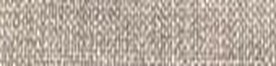
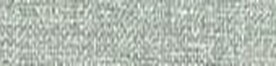
Antidesgarro: nombres reales de los 20 colores y aclarar que es antimanchas
Claude-Session: https://claude.ai/code/session_01CieVK7rjxLV5jgxNJwhLKH

diff --git a/index.html b/index.html
@@ -636,10 +636,10 @@
       info: 'Pana antimanchas, suave al tacto. Para interior. 26 colores.',
       nota: '' },
     antidesgarro: { nombre: 'Antidesgarro', extra: 0, carpeta: 'img/antidesgarro', nota: '',
-      colores: [["Crudo","#e6decc"],["Marfil","#e5dac5"],["Arena","#dfcfb7"],["Beige","#ccbb9b"],["Tostado","#d6bf95"],["Camel","#daad71"],["Amarillo","#f7d018"],
-        ["Pistacho","#d4c277"],["Lima","#baa73a"],["Coral","#ec906e"],["Terracota","#d6967a"],["Visón","#b4a386"],["Natural","#e6e2cf"],["Salvia","#b3bbb2"],
-        ["Celeste","#b7cddb"],["Azul","#658dae"],["Piedra","#b6aa9e"],["Gris","#858585"],["Grafito","#7a776c"],["Negro","#404444"]],
-      info: 'Tela antidesgarro: resiste las uñas de perros y gatos, ideal si tenés mascotas. Para interior. 20 colores.' },
+      colores: [["Óptico","#e6decc"],["Crudo","#e5dac5"],["Beige","#dfcfb7"],["Lino","#ccbb9b"],["Arena","#d6bf95"],["Almendra","#daad71"],["Amarillo","#f7d018"],
+        ["Verde","#d4c277"],["Musgo","#baa73a"],["Rosa","#ec906e"],["Nude","#d6967a"],["Gamo","#b4a386"],["Stone","#e6e2cf"],["Piedra","#b3bbb2"],
+        ["Cielo","#b7cddb"],["Azul","#658dae"],["Gris","#b6aa9e"],["Petróleo","#858585"],["Topo","#7a776c"],["Negro","#404444"]],
+      info: 'Tela antidesgarro y antimanchas: resiste las uñas de perros y gatos, ideal si tenés mascotas. Para interior. 20 colores.' },
     panama: { nombre: 'Panamá (100% algodón)', extra: 19000, colores: [], carpeta: '', nota: '',
       info: 'Para exterior. 100% algodón, la más suave de las de exterior. No es impermeable. Suma $19.000 por almohadón. Colores a consultar.' },
     exterior: { nombre: 'Exterior impermeable de PVC, con filtro solar', extra: 17000, colores: EXTERIOR, carpeta: 'img/exterior',
